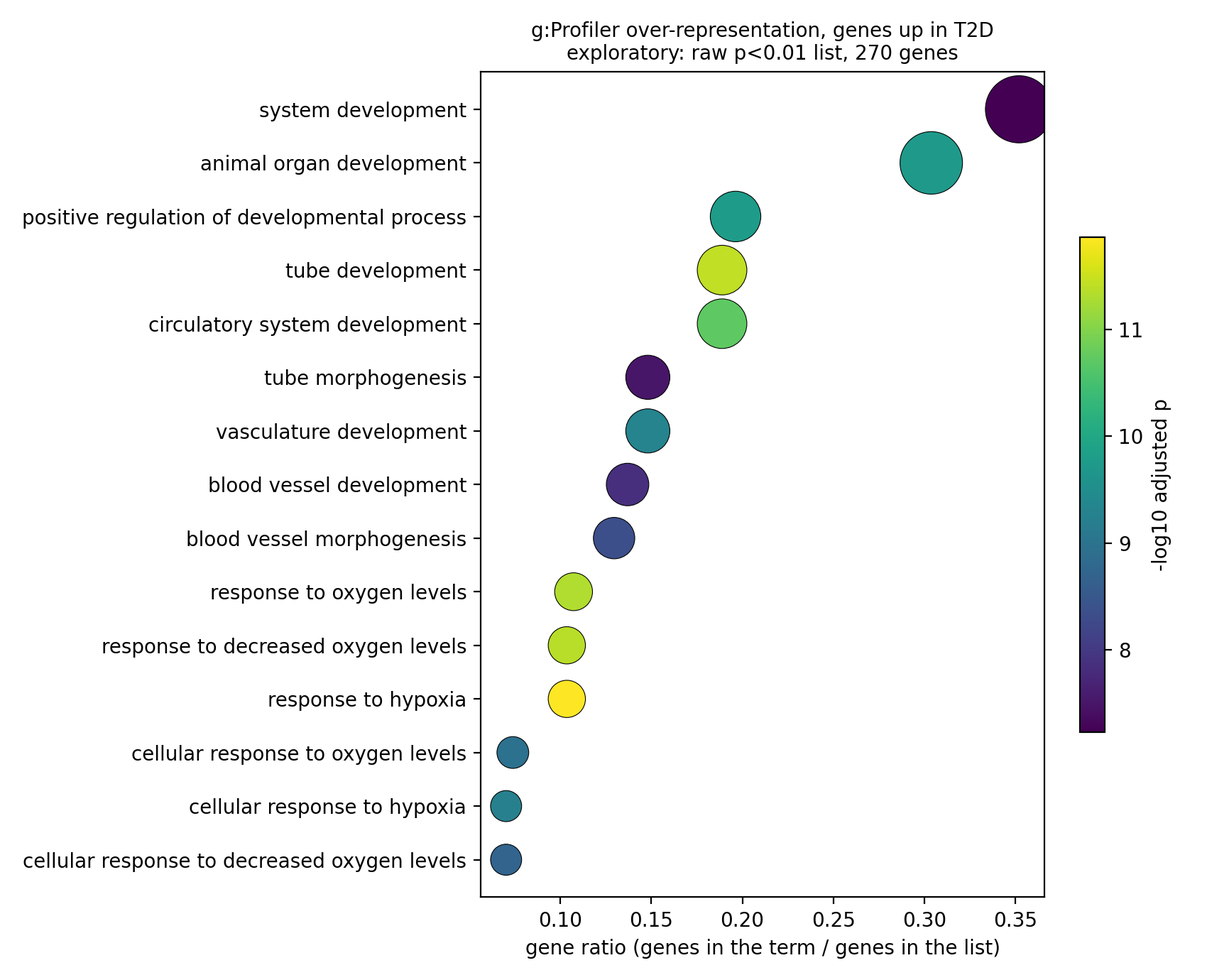
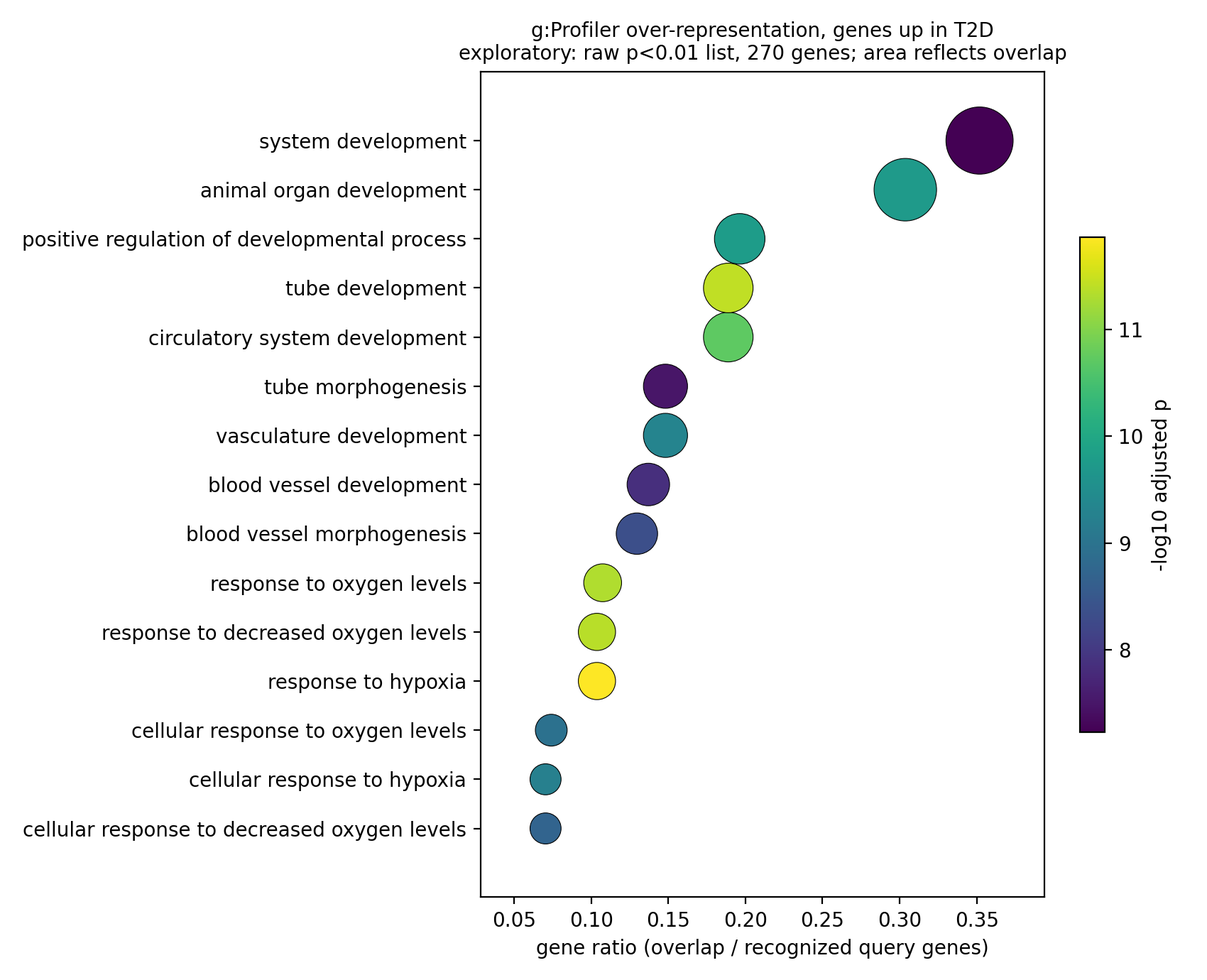
Clarify pathway interpretation and reproducibility

diff --git a/Part4/scripts/part4_pathways_v2.py b/Part4/scripts/part4_pathways_v2.py
@@ -147,8 +147,9 @@ if not a.skip_ora:
                 sc = ax.scatter(d["gene_ratio"], d["name"].str.slice(0, 55),
                                 s=20 + 12 * d["intersection_size"],
                                 c=-np.log10(d["p_value"].clip(lower=np.finfo(float).tiny)), cmap="viridis", edgecolor="k", lw=.4)
-                ax.set_xlabel("gene ratio")
-                ax.set_title(f"g:Profiler ORA, genes {k} in T2D (exploratory, raw p<{a.p_cut})", fontsize=10)
+                ax.margins(x=.15, y=.10)
+                ax.set_xlabel("gene ratio (overlap / recognized query genes)")
+                ax.set_title(f"g:Profiler ORA, genes {k} in T2D (exploratory, raw p<{a.p_cut})\nDot area reflects overlap count", fontsize=10)
                 fig.colorbar(sc, label="-log10 adjusted p", shrink=.6)
                 fig.tight_layout(); fig.savefig(f"{FIG}/dotplot_ora_{k}.png", dpi=200); plt.close(fig)
     except Exception as e:
@@ -156,7 +157,9 @@ if not a.skip_ora:
 
 # ---------------------------------------------------------------- checks for interpretation
 fad = ["TSPAN33", "NT5E", "TMED6", "PAK5"]   # PAK7 was renamed PAK5 by HGNC; Ensembl 110 uses PAK5
-chk = de[de.symbol.isin(fad)][["symbol", "baseMean", "log2FoldChange", "pvalue", "padj"]]
+chk = de.loc[de.symbol.isin(fad), ["symbol", "ensembl", "baseMean", "log2FoldChange", "stat", "pvalue", "padj"]].copy()
+chk.insert(0, "fadista_name", chk.symbol.replace({"PAK5": "PAK7 (now PAK5)"}))
+chk = chk.sort_values("pvalue")
 chk.to_csv(f"{RES}/fadista_silenced_genes_check.csv", index=False)
 missing = [g for g in fad if g not in set(chk.symbol)]
 

diff --git a/Part4/scripts/fix_ora_plot.py b/Part4/scripts/fix_ora_plot.py
@@ -30,9 +30,10 @@ for k, d in O.groupby("direction"):
     sc = ax.scatter(d["gene_ratio"], d["name"].astype(str).str.slice(0, 55),
                     s=20 + 12 * d["intersection_size"],
                     c=-np.log10(d["p_value"]), cmap="viridis", edgecolor="k", lw=.4)
-    ax.set_xlabel("gene ratio (genes in the term / genes in the list)")
+    ax.margins(x=.15, y=.10)
+    ax.set_xlabel("gene ratio (overlap / recognized query genes)")
     ax.set_title(f"g:Profiler over-representation, genes {k} in T2D\n"
-                 f"exploratory: raw p<0.01 list, {int(d['query_size'].iloc[0])} genes", fontsize=10)
+                 f"exploratory: raw p<0.01 list, {int(d['query_size'].iloc[0])} genes; area reflects overlap", fontsize=10)
     fig.colorbar(sc, label="-log10 adjusted p", shrink=.6)
     fig.tight_layout()
     out = f"figures/dotplot_ora_{k}.png"

diff --git a/Part4/interpretation_notes.md b/Part4/interpretation_notes.md
@@ -6,17 +6,17 @@ In the full 16-donor analysis two groups of pathways move in opposite directions
 
 **Reduced in T2D.** Beta-cell identity (Hallmark Pancreas Beta Cells, NES -1.80, FDR 0.004), protein secretion (NES -2.13) and mitochondrial RNA processing (Reactome tRNA Processing in the Mitochondrion, NES -3.12; rRNA Processing in the Mitochondrion, NES -2.95). These are coordinated transcript-level shifts, consistent with altered beta-cell-associated biology but not direct measurements of cell identity, secretion or mitochondrial activity.
 
-**Raised in T2D.** Hypoxia is the strongest (Hallmark Hypoxia, NES 2.72), with inflammation, epithelial-mesenchymal transition, glycolysis, and collagen and extracellular matrix alongside it. g:Profiler, run on a fixed gene list rather than the ranking, puts response to hypoxia first (p = 1.4e-12). That is a second method, not independent evidence: it uses the same donors and the same DESeq2 output.
+**Raised in T2D.** Hypoxia is the strongest (Hallmark Hypoxia, NES 2.72), with inflammation, epithelial-mesenchymal transition, glycolysis, and collagen and extracellular matrix alongside it. g:Profiler, run on a fixed gene list rather than the ranking, puts response to hypoxia first (g:SCS-adjusted p = 1.4e-12). That is a second method, not independent evidence: it uses the same donors and the same DESeq2 output.
 
 ## Which of this survives a change of donors
 
-Part 2 found that two T2D donors, P7_T2D and P8_T2D, carry hypoxia and stress genes ten to fifteen times higher than every other donor, and that removing them removes all six differentially expressed genes. The obvious test, refitting without them, has a trap: any result can lose significance in a smaller, more imbalanced cohort simply through lost power. So we refitted DESeq2 twenty-one times, once for all 16 donors, once for each single-donor exclusion, and once for each of four T2D pairs, and scored four fixed gene sets identically every time.
+Part 2 found that two T2D donors, P7_T2D and P8_T2D, carry hypoxia and stress genes ten to fifteen times higher than every other donor, and that none of the original six differentially expressed genes stays significant after removing them; four other genes reach FDR < 0.05. The obvious test, refitting without them, has a trap: any result can lose significance in a smaller, more imbalanced cohort simply through lost power. So we refitted DESeq2 twenty-one times, once for all 16 donors, once for each single-donor exclusion, and once for each of four T2D pairs, and scored four fixed gene sets identically every time.
 
 The comparison helps assess sensitivity beyond loss of sample size (`figures/donor_influence.png`).
 
-- **Hypoxia is specifically influenced by P7/P8.** Cellular Response to Hypoxia scores NES 2.31 in the full cohort, 1.19 without P7/P8, and 2.19 to 2.39 for the three other T2D pairs we tested, which remove the same number of samples. The gene-level effect moves the same way: mean log2 fold change of the set falls 88%, from 0.54 to 0.06, while the comparison pairs show no fall at all (0.55 to 0.64). This pattern is consistent with influence beyond sample size alone. The three comparison pairs are all in batch A, whereas P7/P8 are in batch B. Thus donor influence cannot be separated from changed batch representation; only three alternative pairs were examined (four of 28 total pairs).
+- **Hypoxia is sensitive to exclusion of P7/P8.** Cellular Response to Hypoxia scores NES 2.31 in the full cohort, 1.19 without P7/P8, and 2.19 to 2.39 for the three other T2D pairs we tested, which remove the same number of samples. The gene-level effect moves the same way: mean log2 fold change of the set falls 88%, from 0.54 to 0.06, while the comparison pairs show no fall at all (0.55 to 0.64). This pattern is consistent with influence beyond sample size alone. The three comparison pairs are all in batch A, whereas P7/P8 are in batch B. Thus donor influence cannot be separated from changed batch representation; only three alternative pairs were examined (four of 28 total pairs).
 - **Extracellular matrix moves in the same direction but less strongly.** NES 2.35 to 1.62, which is below all three comparison pairs (2.12 to 2.55), with mean log2 fold change falling 43% against no fall for those pairs. Across the sixteen single-donor exclusions, hypoxia drops as far as 1.85 whereas ECM never goes below 2.03. So the matrix signature is donor-influenced in the same direction, but on weaker evidence than hypoxia, and we report it that way. Reactome mitochondrial tRNA processing behaves similarly, -3.13 to -1.95 against -2.89 to -3.15.
-- **The beta-cell set shows no sign of being driven by these donors.** Its NES is negative in all 21 refits, between -0.98 and -2.42. The P7/P8 value of -1.72 sits inside the range the other twenty refits produce, and the four two-donor exclusions span only -1.56 to -1.72. It is not insensitive to every donor: removing P4_ND weakens it to -0.98. The point is narrower than "unmoved" - it is that P7_T2D and P8_T2D are not what carries it.
+- **The beta-cell set remains negative after excluding these donors.** Its NES is negative in all 21 refits, between -0.98 and -2.42. The P7/P8 value of -1.72 sits inside the range the other twenty refits produce, and the four two-donor exclusions span only -1.56 to -1.72. It is not insensitive to every donor: removing P4_ND weakens it to -0.98. The point is narrower than "unmoved" - it is that P7_T2D and P8_T2D are not what carries it.
 
 At full-library scale the picture is messier and does not support a blanket claim. In the Hallmark library 14 of 26 significant sets lose significance without P7/P8, 12 keep it and 15 others gain it. Hypoxia and glycolysis lose it, dropping to NES 0.89 and -1.22. TNF-alpha signalling via NF-kB keeps it at 2.18, epithelial-mesenchymal transition at 2.30, and inflammatory response at 1.50, though that last is borderline at FDR 0.031. So it is **not** true that every raised pathway depends on those donors; TNF-alpha, EMT and inflammatory response retain significance in this comparison. Protein secretion reverses sign (-2.08 to +0.98) and is not directionally stable; mitochondrial tRNA and rRNA processing remain negative and significant (FDR 0.038 and 0.0459), while mitochondrial RNA degradation loses significance. These comparison runs used 1,000 permutations for both cohorts; the primary results above used 10,000.
 
@@ -24,11 +24,11 @@ The 14-donor fit should also be read with care. It is unstable rather than merel
 
 ## Does it fit type 2 diabetes?
 
-The reduced direction fits, and each piece has published support.
+The beta-cell-associated and mitochondrial RNA-processing signatures fit some aspects of published T2D biology, but the agreement is incomplete.
 
-- Loss of beta-cell identity, with reduced expression of mature markers including PDX1 and MAFA, is an established mechanism of beta-cell failure in T2D (Hunter and Stein 2017, a review covering human and rodent work).
-- Reduced oxidative phosphorylation gene expression has been reported directly in **human** T2D islets against non-diabetic donors, with 21 downregulated OXPHOS genes against about 7 expected by chance (Olsson et al. 2011). This is the closest match in study design to ours.
-- The combination we see, glycolysis raised while mitochondrial function falls, is the pattern Haythorne et al. (2019) describe. Note that this was a **mouse** model (betaV59M) plus the INS-1 rat beta-cell line, not human islets, so it supports the direction but is not a like-for-like comparison.
+- Loss of mature beta-cell markers has been implicated in T2D (Hunter and Stein 2017, a review covering human and rodent work). Here PDX1 is negative but not individually significant (FDR 0.765), whereas MAFA and INS have positive, nonsignificant fold changes. The set-level finding is not proof of dedifferentiation.
+- Reduced oxidative phosphorylation gene expression has been reported directly in **human** T2D islets against non-diabetic donors, with 21 downregulated OXPHOS genes against about 7 expected by chance (Olsson et al. 2011). However, our oxidative phosphorylation sets are not significantly reduced (Hallmark NES +0.83, FDR 0.873; GO NES +1.19, FDR 0.445). The specific reduction in mitochondrial RNA-processing transcripts is related but does not reproduce that oxidative phosphorylation finding.
+- Haythorne et al. (2019) report increased glycolytic expression and impaired mitochondrial metabolism in a **mouse** model (betaV59M) and the INS-1 rat beta-cell line. Our Hallmark glycolysis signal is positive but loses significance after P7/P8 exclusion. Our mitochondrial RNA-processing results do not measure metabolism; the agreement is therefore partial.
 
 The raised direction has an alternative explanation that fits just as well. Negi et al. (2012) used laser capture on human islets before isolation, after isolation and after three days in culture, and found a strong inflammatory response induced by isolation and continuing in culture, together with loss of the mature endocrine phenotype. Islet isolation stress is not by itself a confound here, because all 16 donors went through the same procedure; it becomes one only where it differs between groups, which remains a plausible explanation for the pattern in these two donors.
 
@@ -38,13 +38,13 @@ One more observation points the same way. The differential expression result is 
 
 This is bulk islet RNA-seq, so a lower beta-cell score could mean fewer beta cells in the sample rather than beta cells expressing less. Part 2's marker-based fractions give no clear evidence for that: endocrine 3.91% in T2D against 2.98% in ND (Welch p = 0.42), acinar 4.50 against 3.74 (p = 0.66), ductal 0.26 against 0.35 (p = 0.41).
 
-Those numbers have to be read carefully. A p-value of 0.42 in 8 donors per group does not establish that composition is equivalent, only that we cannot detect a difference; and an endocrine read fraction computed from INS, GCG and SST is a marker proxy, not a count of beta cells. The endocrine fraction is numerically higher in the diabetic samples, but cannot identify beta-cell abundance. Insulin message itself is higher in T2D (log2FC +1.22), as are the exocrine markers PRSS1 (+1.24) and KRT19 (+1.28). The reduced set score therefore comes from the regulatory and secretory-machinery members of the set, the leading edge listed above, rather than from less hormone message.
+Those numbers have to be read carefully. A p-value of 0.42 in 8 donors per group does not establish that composition is equivalent, only that we cannot detect a difference; and an endocrine read fraction computed from INS, GCG, SST, PPY and GHRL is a marker proxy, not a count of beta cells. The endocrine fraction is numerically higher in the diabetic samples, but cannot identify beta-cell abundance. Insulin message itself is higher in T2D (log2FC +1.22), as are the exocrine markers PRSS1 (+1.24) and KRT19 (+1.28). The reduced set score therefore comes from the regulatory and secretory-machinery members of the set, the leading edge in `results/gsea_MSigDB_Hallmark_2020.csv`, rather than from less hormone message.
 
-That is a refinement, not a resolution. **The marker analysis does not give clear evidence that composition explains the beta-cell result, but it cannot exclude it.** We have not measured insulin secretion, mitochondrial respiration, or anything about an individual beta cell. Deconvolution against a single-cell reference would be the way to settle it.
+That is a refinement, not a resolution. **The marker analysis does not give clear evidence that composition explains the beta-cell result, but it cannot exclude it.** We have not measured insulin secretion, mitochondrial respiration, or anything about an individual beta cell. Deconvolution against a single-cell reference could help distinguish the explanations.
 
 ## Comparison with Fadista et al. 2014
 
-This is a comparison, not a replication. Our 16 donors are a subset of their 89, so agreement is expected and carries little independent weight.
+This is a comparison, not a replication. Our 16 donors are a subset of their 89, so agreement is not independent evidence.
 
 Fadista et al. identified 35 eQTL genes whose expression differed between normoglycemic and hyperglycemic donors, and showed that silencing TSPAN33, NT5E, TMED6 and PAK7 in INS1 cells reduced glucose-stimulated insulin secretion. All four were tested in our data. TSPAN33 is lower in our T2D donors (log2FC -1.01, FDR 0.018). NT5E, TMED6 and PAK5 were not significantly differentially expressed (FDR 0.66, 0.85, 0.84). PAK7 appears in our results under its current HGNC symbol PAK5, which is what the Ensembl 110 annotation uses.
 
@@ -59,9 +59,9 @@ Part 3 reports negative fold changes for 20 of 22 mitochondrial tRNAs, consisten
 - Hypoxia and ECM are sensitive to P7/P8 exclusion, which leaves batch B with no T2D donors. All three comparison pairs are from batch A.
 - Islet purity varies about 15-fold between donors, so differences in cell composition can look like differences in expression.
 - T2D was defined by HbA1c alone; treatment, culture time and cause of death are unknown.
-- The reduced direction rests on GSEA only, since g:Profiler returned no terms for the 32 genes at raw p < 0.01.
+- The reduced direction rests on GSEA only, since g:Profiler returned no significant terms for the 32 genes at raw p < 0.01. This does not rule out enrichment.
 - 1,687 tested genes (8.8%) have no gene symbol and are excluded from GSEA; the libraries themselves cover only 68% (GO:BP) and 51% (Reactome) of the ranked genes.
-- The g:Profiler list uses raw p < 0.01 rather than FDR, so that analysis is exploratory.
+- The g:Profiler list uses raw p < 0.01 rather than FDR, so that analysis is exploratory. The ranking retains finite Wald statistics for 73 symbols associated with missing Part 2 nominal p-values (consistent with Cook-distance filtering); outlier-sensitive statistics are a limitation. Excluding these symbols barely changes the independent beta-cell and hypoxia ES checks, but other pathways have not been re-evaluated under this restriction. GSEA FDR is estimated separately per library.
 - Enrichment is correlation, not mechanism.
 
 ## Next steps, for the synthesis slide

diff --git a/Part4/AUDIT.md b/Part4/AUDIT.md
@@ -9,7 +9,7 @@ Last updated 26 November 2026.
 |------|----------|------|
 | `Part1_data_pipeline/gene_count_matrix.csv` | 62,754 genes x 16 donors | re-analysed from here |
 | `Part2_statistics/results/de_results.csv` | md5 `adb69afe...` | identical to the repository archive copy |
[2 lines of base64/hex data omitted]
 | `genesets/MSigDB_Hallmark_2020.gmt` | sha256 `42755929...`, 50 sets, sizes 32-200 | `Pancreas Beta Cells` = the 40 genes listed on gsea-msigdb.org; `Hypoxia` = 200 genes |
 | `genesets/Reactome_Pathways_2024.gmt` | sha256 `1a7c43cb...`, 2,104 sets | see `GENESETS.md` |
 | `genesets/GO_Biological_Process_2025.gmt` | sha256 `0fc02458...`, 5,342 sets | see `GENESETS.md` |
@@ -43,7 +43,7 @@ The reviewed source was a repository ZIP snapshot; no commit hash is embedded in
 | "Every raised pathway loses significance" | Full-library comparison in all three libraries | FALSE. In Hallmark, 14 of 26 lose, 12 keep, 15 gain. TNF-alpha, EMT and Inflammatory Response keep significance at 14-donor NES 2.18, 2.30 and 1.50 respectively | CORRECTED AND RETESTED |
 | Stability of the 14-donor fit | Counted NES sign changes library-wide | 18/50 Hallmark, 532/1,257 Reactome, 992/2,305 GO:BP change sign; significant-set counts move in opposite directions (GO:BP 182 to 62, Reactome 127 to 249) | ACCEPTABLE SCIENTIFIC LIMITATION, now documented and used to justify preferring the fixed-set comparison |
 | Model identifiability after exclusion | Checked batch x group | batch B has 0 T2D donors after exclusion; group effect rests on batch A | ACCEPTABLE SCIENTIFIC LIMITATION, stated in every document |
-| Cell composition | Compared Part 2 marker-based fractions between groups and located marker genes | endocrine 3.91% vs 2.98% (p = 0.42), acinar 4.50 vs 3.74 (p = 0.66), ductal 0.26 vs 0.35 (p = 0.41); INS +1.22, PRSS1 +1.24, KRT19 +1.28 all higher in T2D | ACCEPTABLE SCIENTIFIC LIMITATION: no clear evidence that composition explains the beta-cell result, and the difference does not run in the direction that explanation needs, but non-significance in 8 donors per group does not establish equivalence and a read fraction is not a beta-cell count. Cannot be excluded |
+| Cell composition | Compared Part 2 marker-based fractions between groups and located marker genes | endocrine 3.91% vs 2.98% (p = 0.42), acinar 4.50 vs 3.74 (p = 0.66), ductal 0.26 vs 0.35 (p = 0.41); INS +1.22, PRSS1 +1.24, KRT19 +1.28 all higher in T2D | ACCEPTABLE SCIENTIFIC LIMITATION: no clear evidence that composition explains the beta-cell result, but non-significance in 8 donors per group does not establish equivalence and a read fraction is not a beta-cell count. Cannot be excluded |
 | Figures match their tables | Re-plotted from the result CSVs and inspected the rendered images | no clipped dots, labels or legends; axis, colour and size mappings correct | CORRECTED AND RETESTED |
 | Literature supports each claim | Fetched each source; checked species and material | Olsson 2011 human islets (direct match); Hunter and Stein 2017 review; Haythorne 2019 mouse model and INS-1 rat line (direction only); Negi 2012 human islets; Fadista 2014 human islets, our own source cohort | CORRECTED AND RETESTED: species and material now stated |
 | Fadista agreement is not replication | Checked donor provenance | our 16 donors are a subset of their 89 | CORRECTED AND RETESTED |
@@ -58,7 +58,7 @@ The reviewed source was a repository ZIP snapshot; no commit hash is embedded in
 | g:Profiler used 274 genes against 19,072 | CORRECTED | 270 recognised of 274 submitted; effective background 18,909 of 19,072 |
 | g:Profiler is an "independent" check | CORRECTED | second method, same donors and same DESeq2 output |
 | Beta-cell signal "five orders of magnitude stronger" | RETRACTED | from a 30-gene set assembled after seeing the results. On the MSigDB set it is essentially unchanged: NES -1.798 to -1.755 |
-| "Every raised pathway loses significance" | RETRACTED | true for hypoxia, glycolysis and matrix sets; false for TNF-alpha, EMT and inflammatory response, which keep significance |
+| "Every raised pathway loses significance" | RETRACTED | true for hypoxia, glycolysis and several matrix sets; false for TNF-alpha, EMT, inflammatory response and Reactome collagen degradation, which keep significance |
 | "The stress signature collapses, proving an artifact" | CORRECTED | hypoxia is sensitive to P7/P8 exclusion; same-size comparison pairs are from batch A, unlike P7/P8 from batch B. Donor and batch effects cannot be separated cleanly, and isolation stress is not proven |
 | Seven beta-cell genes "in the bottom 2%" | WITHDRAWN AS CIRCULAR | those genes were selected by Part 2 for trending down. Replaced by the 40-gene MSigDB set |
 | "Agrees with Fadista" | CORRECTED | our donors are a subset of theirs; this is a re-analysis |
@@ -66,7 +66,7 @@ The reviewed source was a repository ZIP snapshot; no commit hash is embedded in
 
 ## 3. Unresolved
 
-Nothing material. Two items are bounded rather than open:
+The corrected full pipeline remains unexecuted in the review environment. Two additional qualifications:
 
 - The 14-donor Hallmark comparison was run at 1,000 permutations, not 10,000, because the audit machine cannot hold the 10,000-permutation matrix. The 16-donor run at both settings agrees to r = 0.99996 with zero changes in significance class, so the effect on conclusions is negligible. Both rankings in the comparison used identical settings.
 - Part 3 is now present in `../Part3_promoters_ncrna/`. Its 20/22 negative mitochondrial tRNA fold changes agree in direction with the mitochondrial RNA-processing enrichment, subject to shared data and poly-A selection limitations.
@@ -105,3 +105,13 @@ The updated scripts remove the obsolete hand-picked rank test, use matched 1,000
 `python scripts/check_results.py` passed against the repository snapshot: 19,072 tested genes, 17,358 ranked genes, 6 DE genes, 274/32 ORA queries, identical original/repeat 94-term ORA tables, no down-query terms, matching individual/combined GSEA tables (26/125/173 significant sets), matching Hallmark sensitivity classifications (14 lost, 12 kept, 15 gained, 18 sign flips), and 21 stored refits with negative beta-cell NES. All Python files parsed. All three offline plotting scripts executed.
 
 The exact GMT files and the GSEApy, g:Profiler and PyDESeq2 packages were unavailable in the review environment; the corrected full analysis has not been re-executed. Stored primary results and donor refits were retained. The revised sensitivity script can recreate the comparison tables from the archived 16/14-donor DE tables; the 14-donor input is itself an archived fit and can be regenerated with the donor-influence script. Future live g:Profiler results may change with the database.
+
+## Independent check of the final snapshot
+
+The Part 1 count filter yields exactly the 19,072 Part 2 identifiers. Recalculated Wald statistics, available normal-tail p-values and BH-adjusted p-values match to within 1e-12. All 3,612 GSEA rows have valid ES/NES signs, probability ranges, and leading-edge members, counts and order. Both archived ORA tables agree; the leading term has 28 hits, 249 term members, query size 270 and background 18,909. The unadjusted hypergeometric tail is 2.72e-17, distinct from g:SCS-adjusted p=1.36e-12. Live ORA was not repeated in this environment.
+
+An independent sparse running-sum implementation using public Enrichr Hallmark memberships and 10,000 random gene-set permutations reproduces the beta-cell and hypoxia ES to about 1e-15 (ES -0.430895267153 and +0.663927247740; independent NES -1.8140 and +2.7246 versus archived -1.8014 and +2.7235). The original ranking retains 73 symbols associated with 85 rows with missing nominal p-values, consistent with DESeq2 outlier filtering. Excluding these symbols gives ES -0.430949870860 and +0.662216515651 respectively. These are checks of two sets only, not new library-wide FDR estimates.
+
+The two mitochondrial RNA-processing pathways are reduced, but neither Hallmark nor GO oxidative phosphorylation is significantly reduced. The literature comparison has been qualified accordingly. The archived 14-donor DE table has four significant genes (SAA2, PCOLCE2, GNAL, SAA1), none of the original six, matching the Part 2 sensitivity count. The three composition-proxy Welch tests and Part 3's 20/22 negative mitochondrial tRNA fold changes were independently recalculated.
+
+The primary Fadista lookup now writes the same columns and aliases as the archived table; ORA plots have adequate axis margins. All archived numerical results are unchanged. Full rerun remains pending because the exact packages and GMTs could not be fetched in the execution environment.

diff --git a/Part4/README.md b/Part4/README.md
@@ -9,7 +9,7 @@ report, including what was checked and what was corrected, is in `AUDIT.md`.
 
 | file | content |
 |------|---------|
-| `results/ranked_list.csv` | all 17,358 symbol-annotated genes ranked by the DESeq2 Wald statistic |
+| `results/ranked_list.csv` | 17,358 unique gene symbols ranked by the DESeq2 Wald statistic |
 | `results/gsea_MSigDB_Hallmark_2020.csv` | GSEA, 50 Hallmark sets |
 | `results/gsea_Reactome_Pathways_2024.csv` | GSEA, 1,257 Reactome sets |
 | `results/gsea_GO_Biological_Process_2025.csv` | GSEA, 2,305 GO:BP sets |
@@ -96,4 +96,4 @@ notes this mode is less conservative than phenotype permutation and that FDR < 0
 is the appropriate threshold for it, which is what we use.
 
 g:Profiler: custom background of the tested genes, g:SCS correction (g:Profiler's own correction
-for GO and Reactome graph structure, not Benjamini-Hochberg).
+for the annotated gene-set structure, not Benjamini-Hochberg). The GSEA FDR is estimated separately within each library; g:Profiler queries use their own correction. Finite Wald statistics were retained even when Part 2 suppressed a nominal p-value (73 ranked symbols have such flags). The archived ranking is preserved; see `note.txt` for the limitation.
